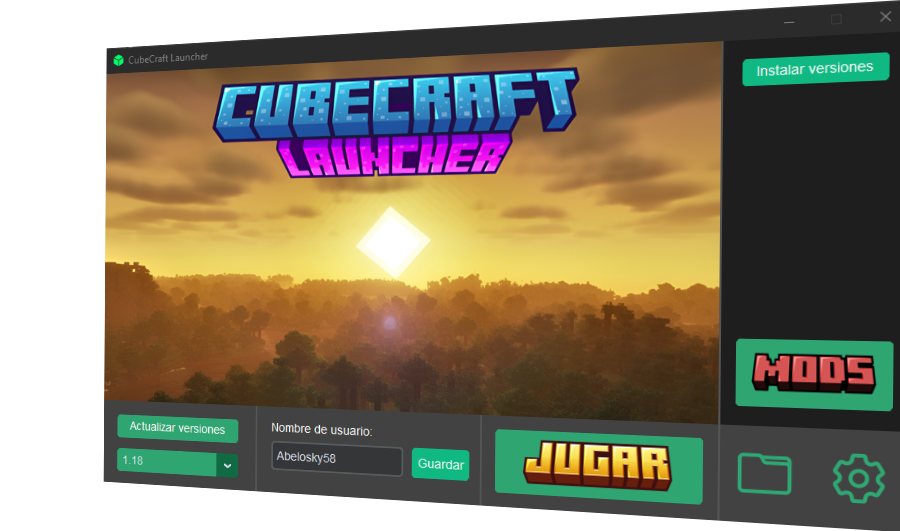
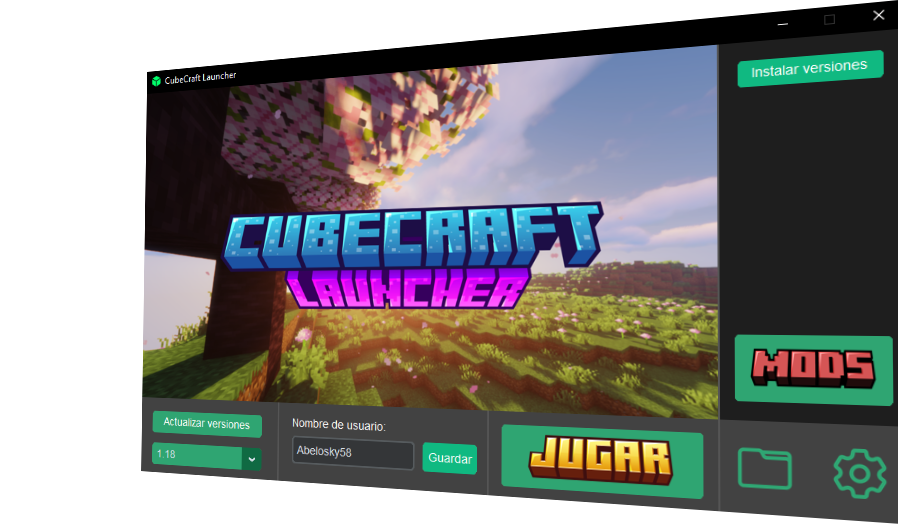
Fix

diff --git a/styles.css b/styles.css
@@ -55,13 +55,15 @@ p{
     flex-direction: column;
     gap: 30px;
 
+    background-repeat: no-repeat;
+    background-size: cover;
     background-image: url(Images/background.jpg);
     background-position: center;
     background-attachment: fixed;
 }
 .hero .title{
     height: auto;
-    width: clamp(70px, 80vw, 700px);
+    width: clamp(70px, 80vw, 900px);
 
 
     opacity: 0;
